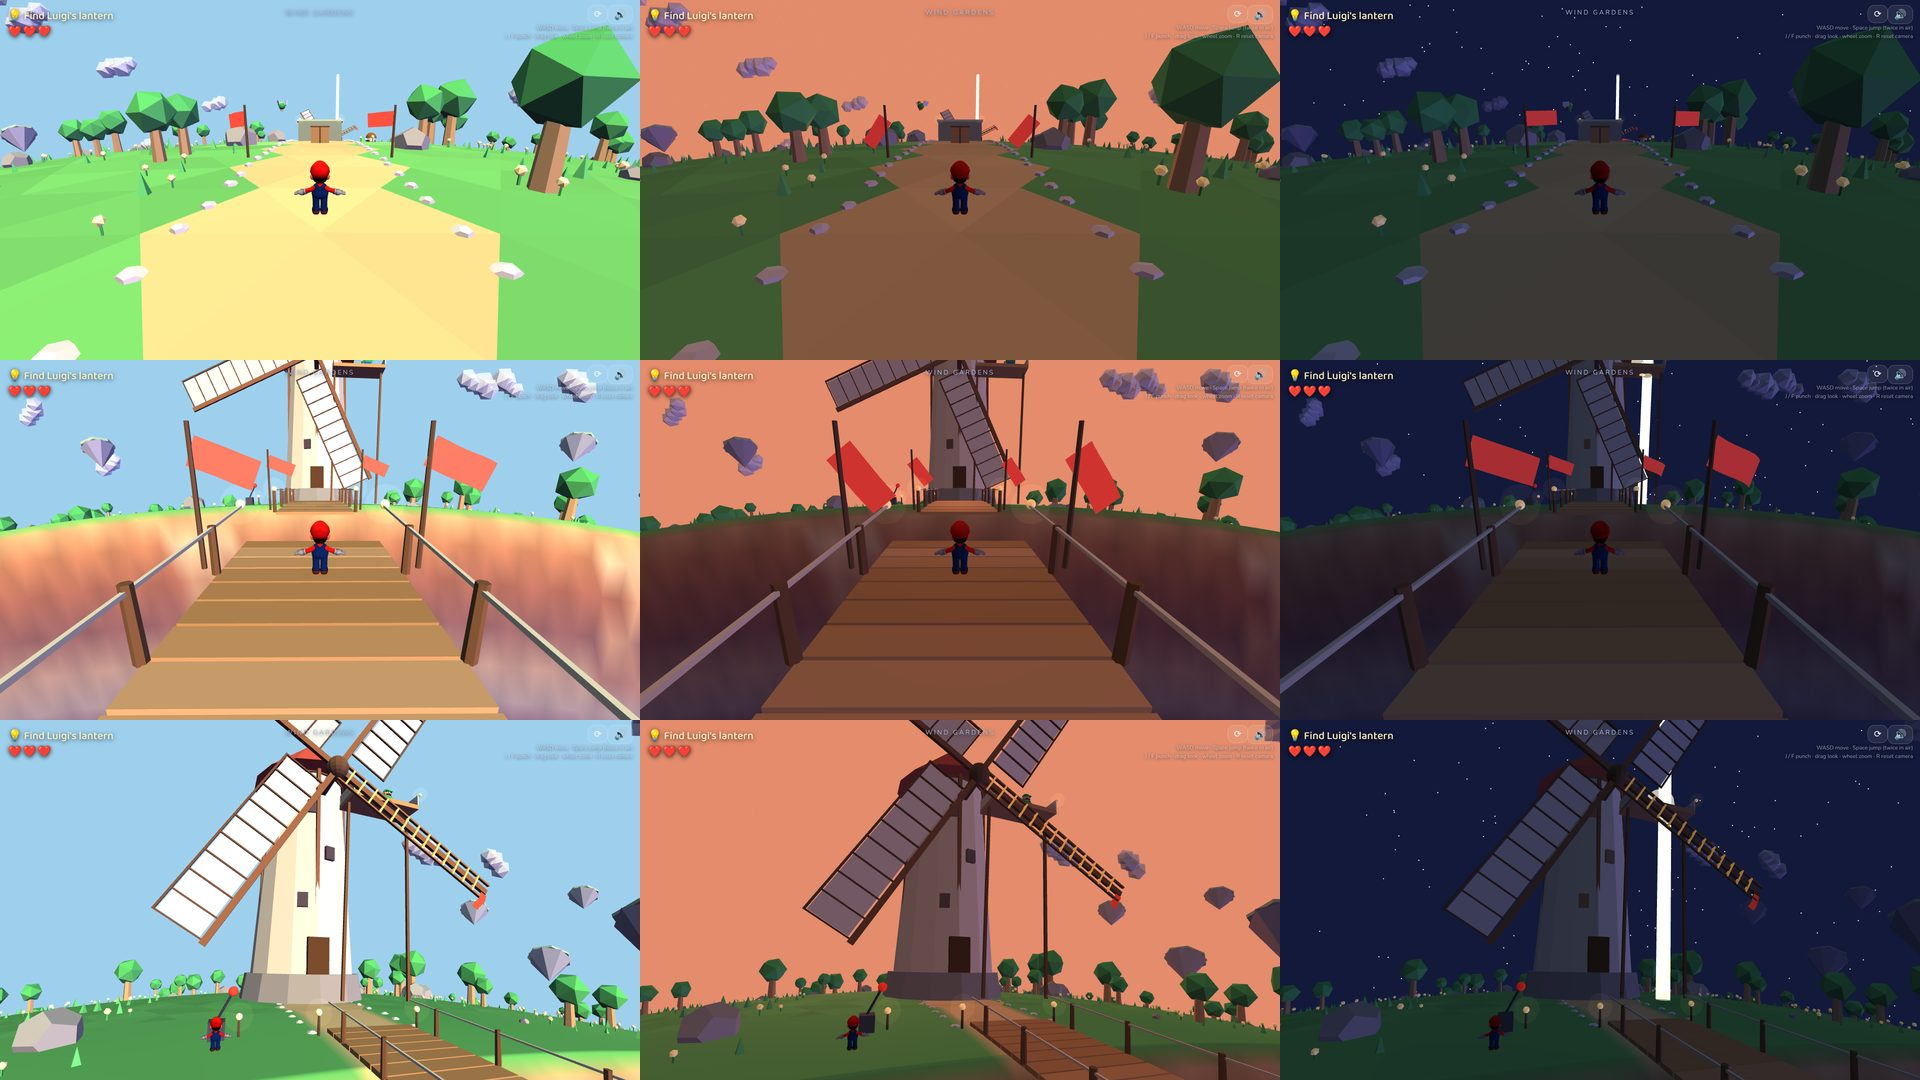
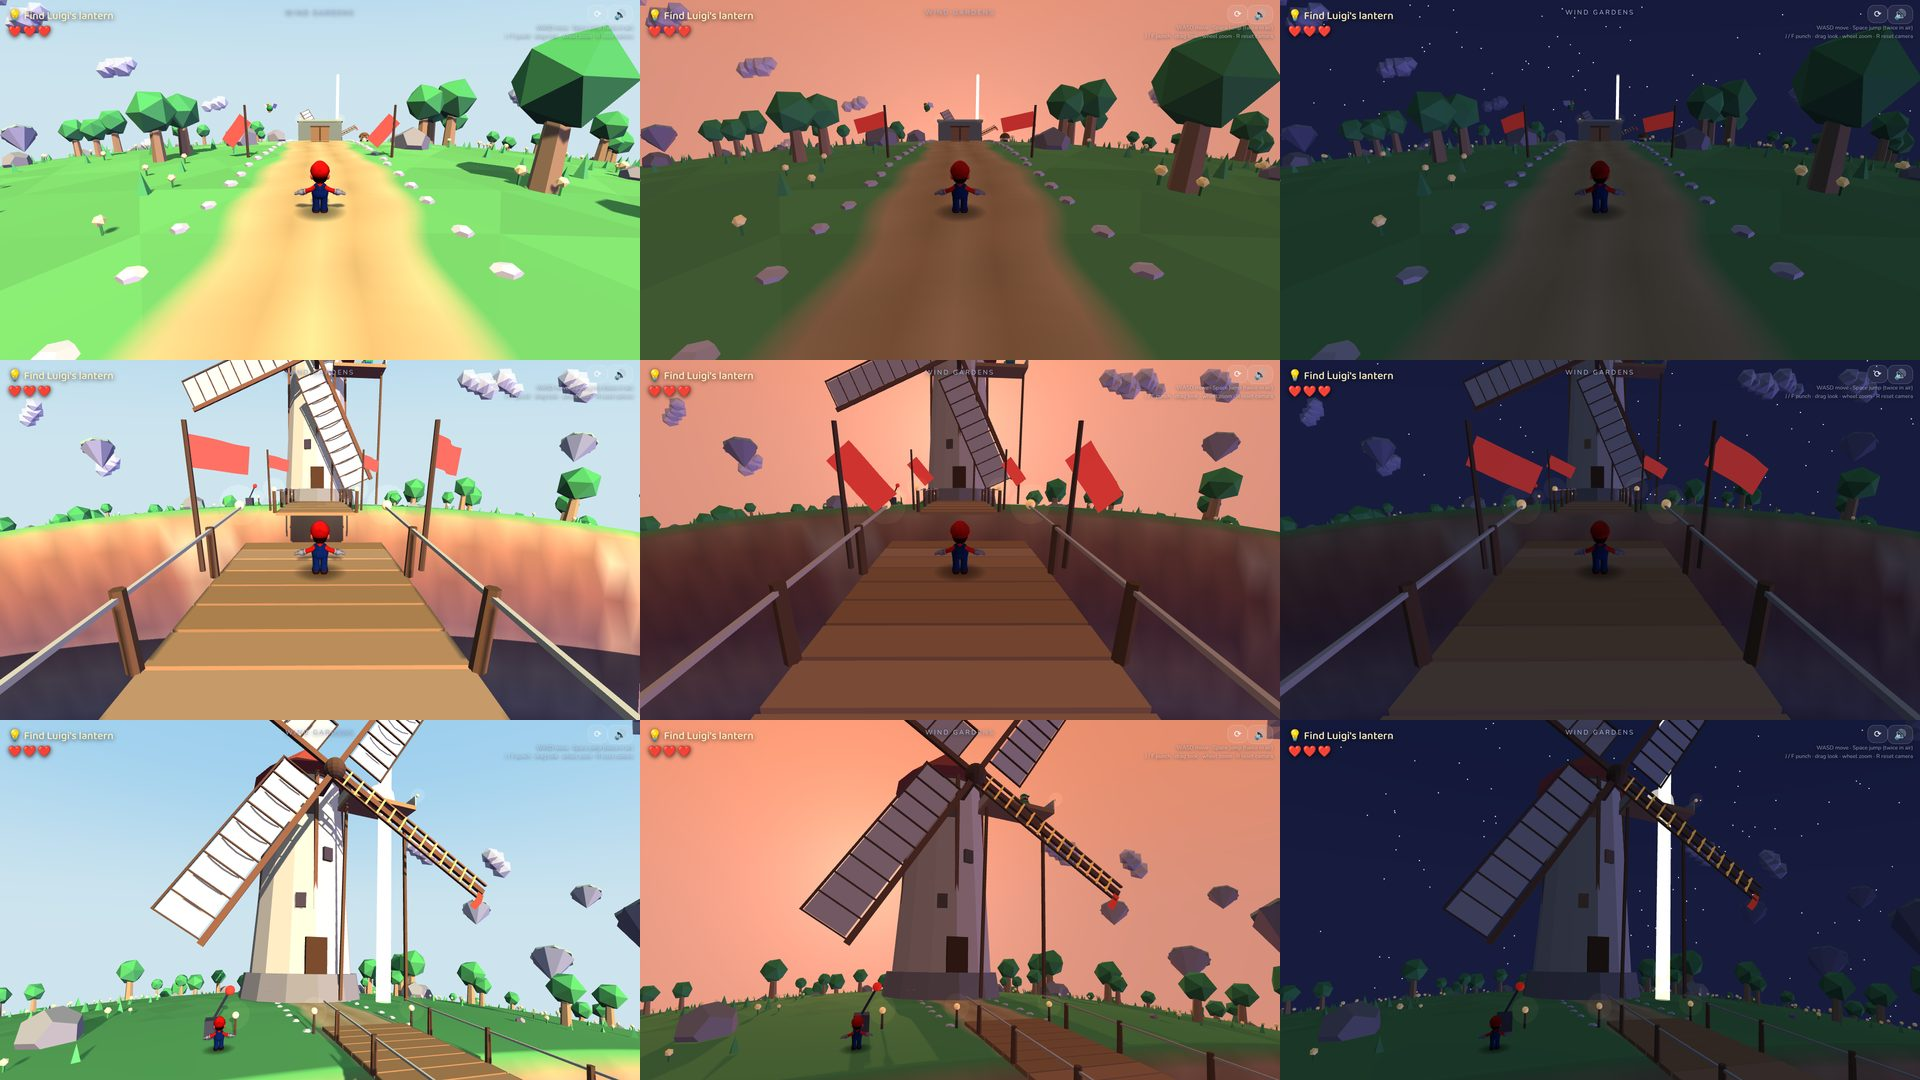
Wind Gardens look: soft path ribbon, sky dome, sun shadows and a hero drop shadow (#5)
Claude-Session: https://claude.ai/code/session_01KSroyHHwnQYbn2C2XoCt4L

diff --git a/js/day-cycle.js b/js/day-cycle.js
@@ -48,8 +48,51 @@ const DayCycle = (() => {
     return x;
   }
 
-  // refs: { scene, sun, hemi, rim, stars, sunDisc }
-  function attach(r) { refs = r; }
+  // A sky dome (issue #5): the zenith takes the key frame's sky colour and the horizon the fog
+  // colour, so far terrain melts into the sky instead of stopping at a flat backdrop. A soft
+  // glow sits around the sun. It follows the camera and is drawn first, without depth.
+  let dome = null;
+  function makeDome() {
+    const mat = new THREE.ShaderMaterial({
+      uniforms: { top: { value: new THREE.Color() }, horizon: { value: new THREE.Color() }, glow: { value: new THREE.Color() },
+        up: { value: new V3(0, 1, 0) }, sunDir: { value: new V3(0, 1, 0) }, glowI: { value: 0 } },
+      vertexShader: "varying vec3 vDir; void main(){ vDir = normalize(position); gl_Position = projectionMatrix * modelViewMatrix * vec4(position, 1.0); }",
+      fragmentShader: [
+        "uniform vec3 top; uniform vec3 horizon; uniform vec3 glow; uniform vec3 up; uniform vec3 sunDir; uniform float glowI;",
+        "varying vec3 vDir;",
+        "void main(){",
+        "  vec3 d = normalize(vDir); float h = dot(d, up);",
+        "  vec3 c = mix(horizon, top, smoothstep(-0.02, 0.55, h));",
+        "  float sd = max(dot(d, sunDir), 0.0);",
+        "  c += glow * glowI * (0.55 * pow(sd, 6.0) + 0.45 * pow(sd, 48.0));",
+        "  gl_FragColor = vec4(c, 1.0);",
+        "}"].join("\n"),
+      side: THREE.BackSide, depthWrite: false, depthTest: false, fog: false
+    });
+    dome = new THREE.Mesh(new THREE.SphereGeometry(2000, 32, 16), mat);
+    dome.frustumCulled = false; dome.renderOrder = -10;
+    dome.visible = false;
+    refs.scene.add(dome);
+  }
+
+  // Sun shadows (issue #5): a shadow map that follows the hero, so trees, the bridge, the mill
+  // and the hero himself shade the ground. Off on other planets and with ?fx=-shadows.
+  const touch = typeof matchMedia === "function" && matchMedia("(pointer: coarse)").matches;
+  function setupShadows() {
+    const { sun, renderer } = refs;
+    if (!renderer) return;
+    renderer.shadowMap.enabled = true;
+    renderer.shadowMap.type = THREE.PCFSoftShadowMap;
+    sun.shadow.mapSize.set(touch ? 1024 : 2048, touch ? 1024 : 2048);
+    const sc = sun.shadow.camera;
+    sc.left = -38; sc.right = 38; sc.top = 38; sc.bottom = -38; sc.near = 1; sc.far = 320;
+    sc.updateProjectionMatrix();
+    sun.shadow.bias = -0.0006; sun.shadow.normalBias = 0.04;
+    refs.scene.add(sun.target);
+  }
+
+  // refs: { scene, renderer, sun, hemi, rim, stars, sunDisc }
+  function attach(r) { refs = r; if (FX.sky) makeDome(); if (FX.shadows) setupShadows(); }
   // up: unit direction of the middle of the route; forward: the route's +s direction there
   function configure(up, forward) { C.copy(up).normalize(); F.copy(forward).projectOnPlane(C).normalize(); }
   function reset() { t = 0; }
@@ -77,10 +120,15 @@ const DayCycle = (() => {
     return warp(x, k);
   }
 
-  function apply(camera) {
+  const _up = new V3(), _glow = new THREE.Color();
+  // focus: the point the shadow map centres on (the hero); center: the planet centre
+  function apply(camera, focus, center) {
     if (!refs) return;
     const { scene, sun, hemi, rim, stars, sunDisc } = refs;
-    if (!on) {                                       // other planets and the menu: the old night sky
+    if (FX.shadows && sun.castShadow !== on) sun.castShadow = on;
+    if (dome) dome.visible = on;
+    if (!on) {
+      sun.target.position.set(0, 0, 0);                                       // other planets and the menu: the old night sky
       scene.background.setHex(0x05060f);
       scene.fog.near = 1e6; scene.fog.far = 1e6 + 1;
       sun.color.setHex(0xfff1d0); sun.intensity = 1.05; sun.position.set(60, 90, 40);
@@ -105,13 +153,28 @@ const DayCycle = (() => {
     // haze: far in daylight, closer at night so the far planet side fades into the dark
     scene.fog.near = 70 - 30 * dark; scene.fog.far = 520 - 260 * dark;
     sun.color.copy(k.sun); sun.intensity = k.sunI;
-    sun.position.copy(sunDir).multiplyScalar(500);
+    if (focus) {               // same direction as before; centred on the hero for the shadow map
+      sun.target.position.copy(focus);
+      sun.position.copy(focus).addScaledVector(sunDir, 150);
+    } else { sun.target.position.set(0, 0, 0); sun.position.copy(sunDir).multiplyScalar(500); }
     hemi.color.copy(k.hs); hemi.groundColor.copy(k.hg);
     hemi.intensity = Math.max(TUNE.day.minAmbient, k.hI - 0.3 * dark);
     hemi.position.copy(C);
     rim.intensity = k.rimI;
     stars.material.opacity = 0.9 * k.stars;
     stars.visible = k.stars > 0.01;
+    if (dome) {
+      const u = dome.material.uniforms;
+      dome.position.copy(camera.position);
+      u.top.value.copy(scene.background);
+      u.horizon.value.copy(scene.fog.color);
+      if (center) _up.copy(camera.position).sub(center).normalize(); else _up.copy(C);
+      u.up.value.copy(_up);
+      u.sunDir.value.copy(sunDir);
+      _glow.copy(k.sun).lerp(new THREE.Color(0xffffff), 0.25);
+      u.glow.value.copy(_glow);
+      u.glowI.value = 0.55 * Math.max(0, Math.min(1, (elev + 8) / 10)) * (1 - 0.6 * Math.max(0, Math.min(1, (elev - 15) / 40)));
+    }
     // a visible sun disc, following the camera like the starfield
     sunDisc.visible = elev > -6;
     if (sunDisc.visible) {

diff --git a/js/wind-gardens.js b/js/wind-gardens.js
@@ -162,7 +162,7 @@ const WindGardens = (() => {
         if (-h > LAYOUT.trench.depth + 0.5) set = tmp.copy(rock).lerp(deep, k);
         else set = tmp.copy(net);
       } else if (h < -0.4) set = tmp.copy(net).lerp(rock, 0.2);
-      else if (Math.abs(c.l) < 3.2 && c.s > -14 && c.s < 160) set = tmp.copy(dirt);
+      else if (!FX.path && Math.abs(c.l) < 3.2 && c.s > -14 && c.s < 160) set = tmp.copy(dirt);
       else if (Math.abs(c.l) < 11 && c.s > 20 && c.s < 56) set = tmp.copy(plaza);
       if (set) {
         set.multiplyScalar(0.94 + rr() * 0.1);
@@ -369,7 +369,7 @@ const WindGardens = (() => {
         localPos(s, l, h).toArray(pos, n * 3);
         const depth = -h;
         if (depth < 0.25) {
-          if (Math.abs(l) < 3.2) c.copy(dirt); else H.tint(dirAt(s, l, v), c);
+          if (!FX.path && Math.abs(l) < 3.2) c.copy(dirt); else H.tint(dirAt(s, l, v), c);
         } else {
           const wob = depth + 0.7 * Math.sin(l * 0.11 + s * 0.35) + 0.4 * Math.sin(l * 0.37);
           const band = Math.floor(wob / 2.3);
@@ -398,6 +398,60 @@ const WindGardens = (() => {
     }
     const m = new THREE.Mesh(geo, new THREE.MeshStandardMaterial({ vertexColors: true, roughness: 0.95, metalness: 0,
       polygonOffset: true, polygonOffsetFactor: -1, polygonOffsetUnits: -1 }));
+    group.add(m);
+  }
+
+  // ---------- the dirt path: its own soft-edged ribbon (issue #5) ----------
+  // The planet triangles are about 4 units wide, so painting the 6 unit path into them gave a
+  // jagged yellow polygon. The ribbon follows terrainH at 0.5 unit steps, wobbles a little at
+  // its edges and fades into the grass through vertex alpha. It is skipped wherever the ground
+  // dips (trench, canyon), where the net and the bridge take over.
+  function buildPath() {
+    const S0 = -16, S1 = 162, DS = 0.5;
+    const across = [-1, -0.88, -0.74, -0.3, 0, 0.3, 0.74, 0.88, 1];   // fraction of the half width
+    const dirt = new THREE.Color(0xe6c27c), rut = new THREE.Color(0xd2aa66), plaza = new THREE.Color(0x92d874);
+    const c = new THREE.Color(), g = new THREE.Color(), v = new V3();
+    const pos = [], col = [], idx = [];
+    let prev = -1;
+    const noise = (s, l) => 0.5 + 0.25 * Math.sin(s * 0.9 + l * 2.1) + 0.25 * Math.sin(s * 2.3 - l * 1.3);
+    for (let s = S0; s <= S1 + 1e-6; s += DS) {
+      const half = 3.0 + 0.3 * Math.sin(s * 0.37) + 0.18 * Math.sin(s * 1.13 + 1.0);
+      const shift = 0.25 * Math.sin(s * 0.21 + 0.5);
+      let ok = true;
+      for (const f of across) if (terrainH(s, shift + f * half) < -0.3) { ok = false; break; }
+      if (!ok) { prev = -1; continue; }
+      const endFade = Math.min(1, (s - S0) / 4, (S1 - s) / 4);
+      const base = pos.length / 3;
+      for (const f of across) {
+        const l = shift + f * half;
+        localPos(s, l, terrainH(s, l) + 0.03).toArray(pos, pos.length);
+        if (Math.abs(l) < 11 && s > 20 && s < 56) g.copy(plaza); else H.tint(dirAt(s, l, v), g);
+        const a = Math.abs(f);
+        c.copy(Math.abs(a - 0.3) < 0.01 ? rut : dirt).multiplyScalar(0.94 + 0.08 * noise(s, l));
+        if (a > 0.8) c.lerp(g, 0.3);
+        const alpha = (a > 0.95 ? 0 : a > 0.8 ? 0.8 : 1) * endFade;
+        col.push(c.r, c.g, c.b, alpha);
+      }
+      if (prev >= 0) for (let k = 0; k < across.length - 1; k++) {
+        const a0 = prev + k, b0 = base + k;
+        idx.push(a0, b0, a0 + 1, a0 + 1, b0, b0 + 1);
+      }
+      prev = base;
+    }
+    const geo = new THREE.BufferGeometry();
+    geo.setAttribute("position", new THREE.Float32BufferAttribute(pos, 3));
+    geo.setAttribute("color", new THREE.Float32BufferAttribute(col, 4));
+    geo.setIndex(idx);
+    geo.computeVertexNormals();
+    const nrm = geo.attributes.normal;
+    if (nrm.getX(0) * pos[0] + nrm.getY(0) * pos[1] + nrm.getZ(0) * pos[2] < 0) {
+      for (let k = 0; k < idx.length; k += 3) { const t = idx[k + 1]; idx[k + 1] = idx[k + 2]; idx[k + 2] = t; }
+      geo.setIndex(idx); geo.computeVertexNormals();
+    }
+    const m = new THREE.Mesh(geo, new THREE.MeshStandardMaterial({ vertexColors: true, transparent: true, depthWrite: false,
+      roughness: 1, metalness: 0, polygonOffset: true, polygonOffsetFactor: -2, polygonOffsetUnits: -2 }));
+    m.renderOrder = -1;           // before the other see-through things (flags' halos, beams)
+    m.receiveShadow = true;
     group.add(m);
   }
 
@@ -569,6 +623,7 @@ const WindGardens = (() => {
     }
 
     if (FX.canyon) buildCanyon();
+    if (FX.path) buildPath();
     if (FX.markers) buildMarkers();
     if (FX.stones) buildStones(rand);
     if (FX.islands) buildIslands(rand);

diff --git a/index.html b/index.html
@@ -375,7 +375,7 @@ const sunDisc = new THREE.Mesh(new THREE.SphereGeometry(70, 20, 12),
   new THREE.MeshBasicMaterial({ color: 0xfff1d0, fog: false, depthWrite: false }));
 sunDisc.frustumCulled = false; sunDisc.renderOrder = -1;
 scene.add(sunDisc);
-DayCycle.attach({ scene, sun, hemi, rim, stars: starfield, sunDisc });
+DayCycle.attach({ scene, renderer, sun, hemi, rim, stars: starfield, sunDisc });
 
 // ---------- shared materials ----------
 const MAT = {
@@ -544,6 +544,13 @@ function buildPlanet(def, index) {
   // ---- decorations per theme ----
   if (def.theme === "wind") {
     WindGardens.build(p, group, { mat: mat, rng: rng, makeBeam: makeBeam, tint: groundTint(def, index) });
+    // sun shadows (issue #5): solid scenery casts and receives; the ground only receives
+    if (FX.shadows) group.traverse(o => {
+      if (!o.isMesh) return;
+      const m = Array.isArray(o.material) ? o.material[0] : o.material;
+      o.receiveShadow = true;
+      o.castShadow = o !== body && !(m && m.transparent) && !o.userData.noCast;
+    });
   }
 
   if (def.theme === "meadow") {
@@ -772,6 +779,7 @@ player.userData.restRot = {};
       model.scale.setScalar(scale);
       model.position.y = -footY * scale;
 
+      model.traverse(o => { if (o.isMesh) { o.castShadow = true; o.frustumCulled = false; } });
       playerRig.add(model);
 
       const bones = {};
@@ -2118,10 +2126,42 @@ function animate() {
   Particles.update(dt);
   Audio.update();
   starfield.position.copy(camera.position);
-  DayCycle.apply(camera);
+  DayCycle.apply(camera, P.pos, active && active.center);
+  updateHeroShadow();
   heroNightGlow();
   TunePanel.update();
   renderer.render(scene, camera);
+}
+
+// A soft round shadow straight under the hero (issue #5), so the landing spot reads during a
+// jump whatever the sun is doing. It lies on the first surface below him and fades with height.
+const heroShadow = (() => {
+  const cv = document.createElement("canvas"); cv.width = cv.height = 64;
+  const cx = cv.getContext("2d"), gr = cx.createRadialGradient(32, 32, 0, 32, 32, 32);
+  gr.addColorStop(0, "rgba(0,0,0,0.55)"); gr.addColorStop(0.6, "rgba(0,0,0,0.3)"); gr.addColorStop(1, "rgba(0,0,0,0)");
+  cx.fillStyle = gr; cx.fillRect(0, 0, 64, 64);
+  const m = new THREE.Mesh(new THREE.PlaneGeometry(1.5, 1.5), new THREE.MeshBasicMaterial({
+    map: new THREE.CanvasTexture(cv), transparent: true, depthWrite: false, fog: false,
+    polygonOffset: true, polygonOffsetFactor: -4, polygonOffsetUnits: -4 }));
+  m.renderOrder = 1; m.visible = false;
+  scene.add(m);
+  return m;
+})();
+const _hsUp = new THREE.Vector3(), _hsQ = new THREE.Quaternion(), _hsZ = new THREE.Vector3(0, 0, 1);
+function updateHeroShadow() {
+  const show = state === S.PLAYING && active && active.def.theme === "wind" && player.visible && !P.climbing;
+  heroShadow.visible = !!show;
+  if (!show) return;
+  _hsUp.copy(P.pos).sub(active.center);
+  const f = WindGardens.cameraFloor(P.pos);
+  const above = f.h - f.floor;
+  if (!isFinite(f.floor) || above > 14) { heroShadow.visible = false; return; }
+  _hsUp.normalize();
+  heroShadow.position.copy(active.center).addScaledVector(_hsUp, active.radius + f.floor + 0.04);
+  heroShadow.quaternion.copy(_hsQ.setFromUnitVectors(_hsZ, _hsUp));
+  const k = Math.max(0, 1 - above / 14);
+  heroShadow.scale.setScalar(0.75 + 0.35 * k);
+  heroShadow.material.opacity = 0.35 + 0.65 * k;
 }
 
 // At night Mario's own textures glow faintly (emissive = his texture), so he stays readable

diff --git a/js/tuning.js b/js/tuning.js
@@ -64,9 +64,9 @@ const TUNE = (() => {
 
 /* Visual effects that can be switched off one by one, to measure what each costs:
    index.html?fx=-canyon,-islands   (a leading minus turns that effect off).
-   Names: day, canyon, windmill, markers, islands, stones. */
+   Names: day, canyon, windmill, markers, islands, stones, path, shadows, sky. */
 const FX = (() => {
-  const fx = { day: true, canyon: true, windmill: true, markers: true, islands: true, stones: true };
+  const fx = { day: true, canyon: true, windmill: true, markers: true, islands: true, stones: true, path: true, shadows: true, sky: true };
   try {
     const m = /[?&]fx=([^&]*)/.exec(location.search);
     if (m) decodeURIComponent(m[1]).split(",").forEach(k => { k = k.trim(); if (k[0] === "-" && k.slice(1) in fx) fx[k.slice(1)] = false; });

diff --git a/tools/route-check.js b/tools/route-check.js
@@ -189,7 +189,7 @@ const STEP = 1 / 60;
   c.ok("gate launches to the next planet", r === "PLANET_TRANSITION", r);
   // the launch plays in real time; afterwards the follow camera must start next to Mario
   await page.evaluate(() => { window.__dbg.pause = false; });
-  await page.waitForFunction(() => window.__dbg.state === "PLAYING", null, { timeout: 15000 });
+  await page.waitForFunction(() => window.__dbg.state === "PLAYING", null, { timeout: 60000 });
   r = await ev(() => { const d = window.__dbg; d.pause = true; d.step(30); return { planet: d.active.name, dist: d.cam.dist, floor: d.camFloor }; });
   c.ok("camera follows Mario on the next planet", r.dist < 11 && r.floor.h > r.floor.floor, r);
 

diff --git a/docs/frames/README.md b/docs/frames/README.md
@@ -2,7 +2,7 @@
 
 `sheet-desktop.jpg` and `sheet-phone-landscape.jpg`: rows are the landing, the bridge top and the brake lever; columns are morning, dusk (the sun on the horizon) and night.
 
-- Source: `node tools/frames.js` on commit `8746963`, headless Chromium with SwiftShader (software WebGL), device pixel ratio 1. Each tile is a game screenshot scaled to half size. The full frames land in `tools/out/` (not committed).
+- Source: `node tools/frames.js` on branch `claude/sharp-knuth-9kzmek` (path ribbon, sky dome, sun shadows; the first sheets were on `8746963`), headless Chromium with SwiftShader (software WebGL), device pixel ratio 1. Each tile is a game screenshot scaled to half size. The full frames land in `tools/out/` (not committed).
 - Sizes: desktop 1280×720, narrow landscape phone 740×360 (emulated window size only, not a real phone).
 - Views: landing at s 0, bridge top at s 92 on the near planks, brake lever at s 120.8, l -9, default camera (zoom 9.15, pitch 0.38). The landing frame waits for the lantern's long flash.
 
@@ -22,3 +22,7 @@
 | all off | 2.4 | 1.6 | 1.9 | 207k |
 
 What this does and does not show: the differences are within ±1 ms and go both ways, so in this setup no effect has a measurable frame cost. The numbers come from software rendering in a container, which says nothing about a real GPU or a phone. The reliable figure is the geometry: the effects add about 43k triangles, 32k of them the canyon strip. Load time (page load event, local server) was 1.9 to 2.3 s in every configuration. **Frame rate and load time on a real computer and a real phone have not been measured.**
+
+## Path, sky and shadows (second pass)
+
+`perf-check.js` measures CPU time per frame in software rendering, so the shadow map does not show up there (all rows within ±1 ms again). The shadow map adds one extra pass over the casting objects near the hero each frame; on a real GPU this is the effect most likely to cost frame rate on a phone. It drops to a 1024 map on touch screens and can be switched off with `?fx=-shadows`. **Not measured on a real device.**

diff --git a/docs/wind-gardens.md b/docs/wind-gardens.md
@@ -60,7 +60,10 @@ How the rotation works: the planet stays still and the sun direction turns aroun
 - Canyon: its own fine mesh (`buildCanyon`, 0.5 units along the route, finer near the route across it), displaced by the same `terrainH` the physics uses, with strata colours that darken and turn blue with depth. The coarse planet sphere is pushed out of sight under the strip.
 - Windmill: four broad blades. Three have a lattice frame and one long cloth sail that billows with `GameShared.wind`. The ladder blade has no sail, glowing rungs and a red pennant at the tip. The tower has a stone foot, a door and three windows.
 - Depth: light stones along the path edges (the route also reads in greyscale), the path is lighter and the grass darker than before, and twelve low-contrast islands float far behind the route.
-- Each effect can be switched off for measurement: `?fx=-day,-canyon,-windmill,-markers,-islands,-stones`.
+- Path: its own ribbon mesh (`buildPath`) that follows `terrainH` every 0.5 units, wobbles at the edges and fades into the grass through vertex alpha. The coarse planet triangles under it keep the grass colour. It stops where the ground dips (trench, canyon).
+- Sky: a dome that follows the camera (`DayCycle`), zenith in the key frame's sky colour, horizon in the fog colour, with a soft glow around the sun. Far terrain now fades into the sky instead of a flat backdrop.
+- Shadows: the sun casts a shadow map (2048, 1024 on touch screens) over 76×76 units centred on the hero. Trees, flowers, the bridge, the mill, enemies and the hero cast; the ground only receives. A soft round shadow also sits straight under the hero on the first surface below him and fades with height, so the landing spot reads during a jump at any time of day.
+- Each effect can be switched off for measurement: `?fx=-day,-canyon,-windmill,-markers,-islands,-stones,-path,-shadows,-sky`.
 
 ## Tuning (#3, #4, #8)
 
